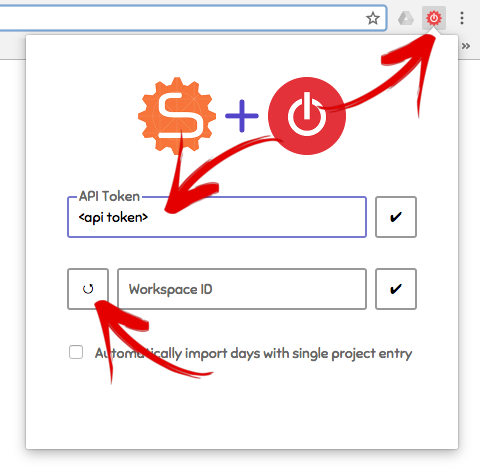
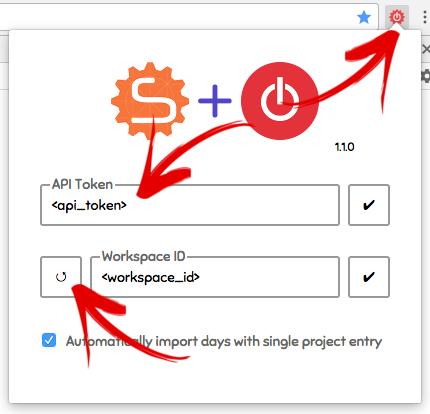
Updated readme, cleanup

Changed region(s): [[0.0, 0.0, 1.0, 1.0], [0.786, 0.3478, 0.8465, 0.3768]]

diff --git a/README.md b/README.md
@@ -56,13 +56,27 @@ Chrome extension for importing a single day from toggl to soncoso daily time rec
 
 ### Automatic import
 
+- Open the project details view on the project overview page
+- Click on the "auto import" button
+
 ![](screenshots/screenshot_autoimport.png)
+
+- Projects for the current week are preloaded, to select a different time range enter the begin and end date and click on the refresh button
+- Select all projects to import for the selected soncoso project and click on continue
+- The import will automatically proceed to the third page and all time entries for this day will be filled in the form
+- Validate the data and continue the time tracking manually (including the next confirm page)
+- The import page will then automatically closed and restarted with the next day to import if available
+
+- The automatic import can be cancelled in the extension popup
+
+![](screenshots/screenshot_cancel_autoimport.png)
 
 ## Changelog
 
 ### 1.1.0
 
 - Added semi-automatic import functionality for a complete project
+- Further improvements
 
 ### 1.0.3
 
